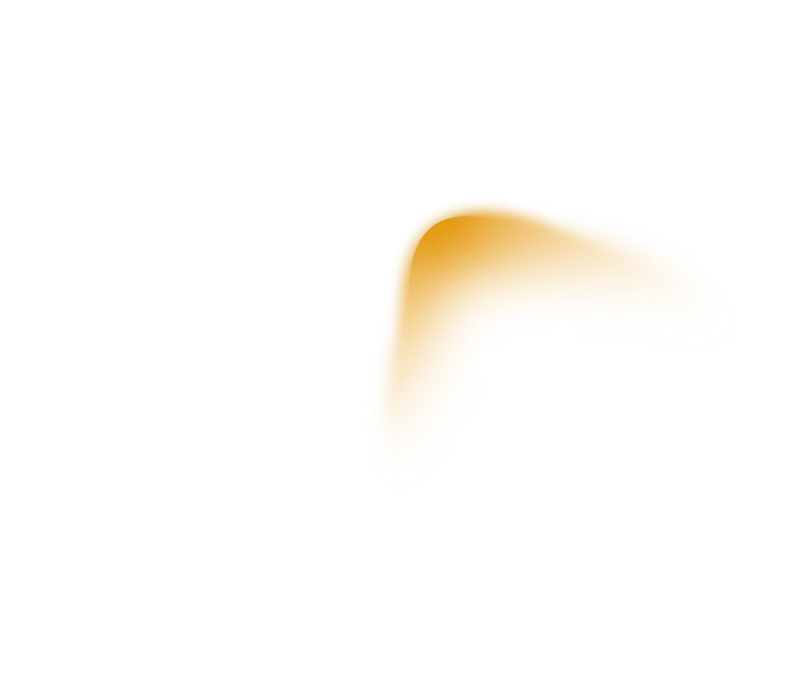
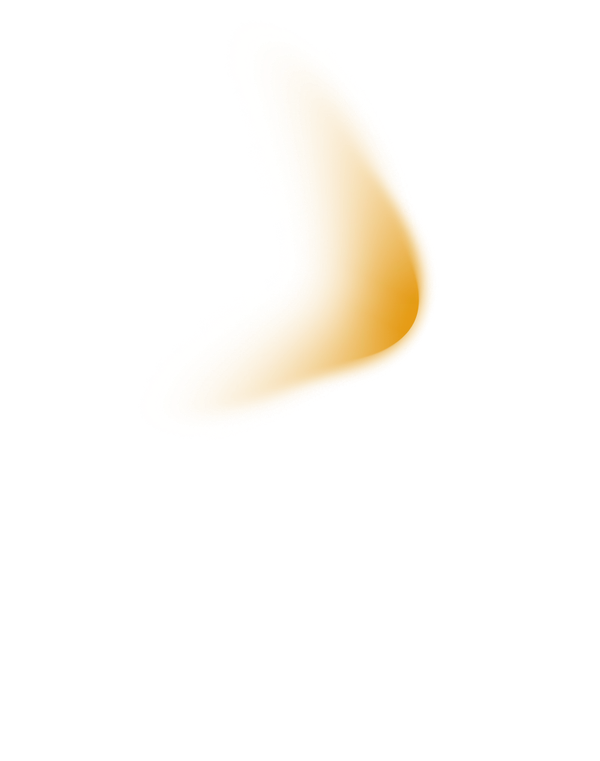
Blurs rebuilt from Figma layer for layer; sign-in stats redesign with count-up
- BlurBg reproduces every Blur V1 instance from Figma: its size, exact
  transform matrix (several are mirrored) and opacity, inside a frame
  placed and anchored like the screen's background frame (left of the
  card, or the middle of the screen for full-page backgrounds), with the
  frame's own fill where it has one. Presets: subscribe banner, org cover,
  Today prompt, sign in, check your email, page not found; phone variants
- Blobs re-exported from the component unrotated (WebP, 87KB in all)
- Full-page blurs run the full screen width, from the header to the
  footer; the auth header has no fill (as in Figma) so the phone Check your
  email blur shows behind it
- Page not found spacing from Figma (137px above the label and below the
  card on desktop, 64px above on phones)
- Sign-in stats: plain figures without cards, two-line labels (Figma
  desktop redesign, now on phones too); figures count up when they come
  into view (CountUp.svelte), real value for screen readers, none of it
  with reduced motion or without JavaScript

Changed region(s): [[0.36, 0.1233, 0.81, 0.6167]]

diff --git a/web/src/routes/login/+page.svelte b/web/src/routes/login/+page.svelte
@@ -1,14 +1,14 @@
 <script lang="ts">
   import BlurBg from '$lib/ui/BlurBg.svelte';
   import Icon from '$lib/ui/Icon.svelte';
+  import CountUp from '$lib/ui/CountUp.svelte';
   let { data, form } = $props();
-  const fmt = (n: number) => n.toLocaleString('en-GB');
 </script>
 
 <svelte:head><title>{form?.sent ? 'Check your email' : 'Sign in'} · Sponsor Hub</title><meta name="robots" content="noindex" /></svelte:head>
 
 {#if form?.sent}
-  <div class="stage blur-bg confirm-stage"><BlurBg />
+  <div class="stage blur-bg confirm-stage"><BlurBg preset="checkEmail" />
     <section class="confirm card rise" aria-labelledby="confirm-h">
       <span class="tile" aria-hidden="true"><svg width="28" height="28" viewBox="0 0 28 28"><rect x="3" y="6" width="22" height="16" rx="3" fill="#A8D5B5" /><path d="M3 9c0-1.7 1.3-3 3-3h16c1.7 0 3 1.3 3 3l-9.2 5.5a3.4 3.4 0 0 1-3.6 0L3 9Z" fill="#1B7D3E" /></svg></span>
       <h1 id="confirm-h" class="t-heading-2" tabindex="-1">Check your email</h1>
@@ -25,7 +25,7 @@
     </section>
   </div>
 {:else}
-  <div class="stage blur-bg"><BlurBg />
+  <div class="stage blur-bg"><BlurBg preset="signin" />
     <div class="split">
       <section class="signin card" aria-labelledby="signin-h">
         <div class="head">
@@ -52,10 +52,10 @@
           <p class="t-body t-secondary">Every employer here holds a Home Office sponsor licence. We check their job boards every day.</p>
         </div>
         <dl class="stats">
-          <div class="card"><dt>live tech roles</dt><dd class="t-stat">{fmt(data.stats.live)}</dd></div>
-          <div class="card"><dt>sponsors hiring now</dt><dd class="t-stat">{fmt(data.stats.hiring)}</dd></div>
-          <div class="card"><dt>register entries checked</dt><dd class="t-stat">{fmt(data.stats.register)}</dd></div>
-          <div class="card"><dt>job board checks</dt><dd class="t-stat">Daily</dd></div>
+          <div><dt>live tech<br />roles</dt><dd class="t-stat"><CountUp value={data.stats.live} /></dd></div>
+          <div><dt>sponsors<br />hiring now</dt><dd class="t-stat"><CountUp value={data.stats.hiring} /></dd></div>
+          <div><dt>register entries<br />checked</dt><dd class="t-stat"><CountUp value={data.stats.register} /></dd></div>
+          <div><dt>job board<br />checks</dt><dd class="t-stat">Daily</dd></div>
         </dl>
       </section>
     </div>
@@ -63,7 +63,7 @@
 {/if}
 
 <style>
-  .stage { flex: 1; display: grid; align-items: center; padding: var(--space-4xl) max(var(--layout-gutter), calc((100% - var(--layout-focus-max)) / 2)); --blur-w: 1500px; --blur-rotate: 93deg; --blur-x: 58%; --blur-y: 62%; --blur-opacity: 0.6; }
+  .stage { flex: 1; display: grid; align-items: center; padding: var(--space-4xl) max(var(--layout-gutter), calc((100% - var(--layout-focus-max)) / 2)); }
   .split { display: grid; grid-template-columns: minmax(0, 500px) minmax(0, 425px); justify-content: space-between; align-items: center; gap: var(--space-3xl); }
   .signin { display: grid; gap: var(--space-lg); padding: var(--space-2xl); }
   .head { display: grid; gap: var(--space-xs); }
@@ -73,12 +73,13 @@
   .why { display: grid; gap: var(--space-lg); }
   .why-head { display: grid; gap: var(--space-xs); }
   .why-head p { margin: 0; }
-  .stats { display: grid; grid-template-columns: repeat(2, minmax(0, 1fr)); gap: var(--space-md); margin: 0; }
-  .stats div { display: flex; flex-direction: column-reverse; justify-content: flex-end; gap: var(--space-2xs); padding: var(--space-lg); }
-  .stats dt { font-size: var(--font-size-body-sm); line-height: var(--line-height-body-sm); color: var(--color-text-secondary); }
-  .stats dd { margin: 0; color: var(--color-text-secondary); }
+  /* Figma › why panel › stats: plain figures, no cards; 2 × 2, labels on two lines */
+  .stats { display: grid; grid-template-columns: repeat(2, minmax(0, 1fr)); column-gap: var(--space-md); row-gap: var(--space-md); max-width: 336px; margin: 0; color: var(--color-text-secondary); }
+  .stats div { display: flex; flex-direction: column-reverse; justify-content: flex-end; gap: var(--space-2xs); padding: var(--space-lg) 0; }
+  .stats dt { font-size: var(--font-size-label-sm); line-height: var(--line-height-label-sm); font-weight: var(--font-weight-medium); }
+  .stats dd { margin: 0; }
 
-  .confirm-stage { --blur-w: 1500px; --blur-rotate: 93deg; --blur-x: 38%; --blur-y: 54%; justify-items: center; }
+  .confirm-stage { justify-items: center; }
   .confirm { display: grid; justify-items: center; text-align: center; gap: var(--space-lg); width: min(100%, 560px); padding: var(--space-3xl); }
   .confirm h1:focus { outline: none; }
   .confirm p { margin: 0; }
@@ -89,13 +90,11 @@
   .confirm-actions form { display: block; }
 
   @media (max-width: 960px) {
-    .stage { align-items: start; padding-top: var(--space-lg); padding-bottom: 240px; --blur-w: 1000px; --blur-x: 62%; --blur-y: 86%; }
+    .stage { align-items: start; padding-top: var(--space-lg); padding-bottom: 240px; }
     .split { grid-template-columns: minmax(0, 1fr); gap: var(--space-3xl); }
     .signin { padding: var(--space-lg); }
     .why { padding: var(--space-xl) 4px 0; }
-    .stats { gap: var(--space-sm); }
-    .stats div { padding: var(--space-md); }
-    .confirm-stage { align-items: start; padding-top: var(--space-6xl); padding-bottom: var(--space-6xl); --blur-y: 78%; --blur-x: 55%; }
+    .confirm-stage { align-items: start; padding-top: var(--space-6xl); padding-bottom: var(--space-6xl); }
     .confirm { padding: var(--space-xl) var(--space-lg); }
     .confirm-actions { flex-direction: column; width: 100%; }
     .confirm-actions > * { width: 100%; }

diff --git a/web/src/lib/ui/BlurBg.svelte b/web/src/lib/ui/BlurBg.svelte
@@ -1,7 +1,73 @@
-<!--
-  Figma › Backgrounds › Blur V1, as three blobs so each can enter on its own
-  (🎞 Motion › Blur entrance): light green drifts in from the left, amber from
-  the right, green 150ms after amber. Place inside an element with .blur-bg;
-  that element's --blur-* variables size and place it. Plays once per visit.
--->
-<span class="blur" aria-hidden="true"><span class="blob blob-light-green"></span><span class="blob blob-amber"></span><span class="blob blob-green"></span></span>
+<script lang="ts" module>
+  /**
+   * Figma › Backgrounds › Blur V1, rebuilt layer for layer from each screen.
+   * Every Blur V1 instance becomes a layer with Figma's own size, transform
+   * matrix (some are mirrored) and opacity, inside a frame placed where the
+   * screen's "background" frame sits. Desktop Small and Large share numbers:
+   * Figma anchors these blurs to the left of their card, or to the middle of
+   * the screen on full-page backgrounds. The blob images are the component's
+   * three blobs, unrotated (static/blob-*.webp).
+   */
+  type Layer = { w: number; h: number; m: string; op: number };
+  /** fill: the background frame's own fill, which sits under the blobs at the frame's opacity. */
+  type Frame = { anchor: 'left' | 'center'; x?: number; y?: number; op?: number; clipTop?: number; fill?: string; layers: Layer[] };
+  type Preset = { desk: Frame; mob: Frame; bleed?: boolean; bp?: 640 | 960 };
+
+  const BANNER = '0.9961, 0.0885, 0.0885, -0.9961'; // mirrored
+  const BANNER2 = '0.0412, -0.9991, -0.9991, -0.0412'; // mirrored, turned
+  const PAGE = '-0.0544, 0.9985, -0.9985, -0.0544';
+  const page = (e: number, f: number): Layer[] => [{ w: 1269.6, h: 1611.9, m: `${PAGE}, ${e}, ${f}`, op: 0.6 }];
+
+  export const BLURS = {
+    /** Banner / Subscribe (and · mobile) */
+    subscribe: {
+      desk: { anchor: 'left', layers: [
+        { w: 1388.4, h: 1762.7, m: `${BANNER}, -884.5547, 890.7804`, op: 0.35 },
+        { w: 1388.4, h: 1762.7, m: `${BANNER2}, 1494.625, 1013.8971`, op: 0.35 }] },
+      mob: { anchor: 'left', op: 0.7, layers: [
+        { w: 1388.4, h: 1762.7, m: `${BANNER}, -944.5547, 890.7804`, op: 0.35 },
+        { w: 1388.4, h: 1762.7, m: `${BANNER2}, 1003.625, 1013.8971`, op: 0.35 }] }
+    },
+    /** Organisation page cover */
+    cover: {
+      desk: { anchor: 'left', y: -225, op: 0.55, fill: 'var(--color-bg-subtle)', layers: [
+        { w: 2122.6, h: 2694.8, m: `${BANNER}, -1352.3035, 1361.8212`, op: 0.35 },
+        { w: 2122.6, h: 2694.8, m: `${BANNER2}, 2284.9763, 1550.0415`, op: 0.35 }] },
+      mob: { anchor: 'left', x: -209, y: -557, op: 0.55, fill: 'var(--color-bg-subtle)', layers: [
+        { w: 4703.1, h: 5971, m: `${BANNER}, -2996.3577, 3017.4465`, op: 0.35 },
+        { w: 4703.1, h: 5971, m: `${BANNER2}, 5062.9219, 3434.4949`, op: 0.35 }] }
+    },
+    /** Today › signed-out prompt card */
+    today: {
+      desk: { anchor: 'left', layers: [{ w: 1691.4, h: 2147.3, m: '0.4436, 0.8962, -0.8962, 0.4436, 786.5156, -821.5362', op: 0.4 }] },
+      mob: { anchor: 'left', layers: [{ w: 747.6, h: 949.1, m: '-0.4436, 0.8962, 0.8962, 0.4436, -76.1484, -320.9231', op: 0.4 }] }
+    },
+    /** Sign in (full page under the header) */
+    signin: { bleed: true, bp: 960, desk: { anchor: 'center', layers: page(763.5547, -0.2922) }, mob: { anchor: 'center', layers: page(603.0547, 392.7078) } },
+    /** Sign in › Check your email; on phones it also shows behind the (transparent) header */
+    checkEmail: { bleed: true, bp: 960, desk: { anchor: 'center', layers: page(603.5552, -91.2922) }, mob: { anchor: 'center', y: -72, clipTop: -72, layers: page(603.5552, 20.7078) } },
+    /** Page not found (main area between header and footer) */
+    notFound: { bleed: true, desk: { anchor: 'center', layers: page(603.5552, -204.2922) }, mob: { anchor: 'center', y: -39, layers: page(603.0557, 19.7078) } }
+  } satisfies Record<string, Preset>;
+</script>
+
+<script lang="ts">
+  /** Place inside an element with .blur-bg. Plays the Blur entrance once per visit (see app.html). */
+  let { preset }: { preset: keyof typeof BLURS } = $props();
+  const p: Preset = $derived(BLURS[preset]);
+</script>
+
+<span class="blur" class:bleed={p.bleed} class:bp960={p.bp === 960} aria-hidden="true">
+  {#each [['desk', p.desk], ['mob', p.mob]] as const as [k, fr] (k)}
+    <span class="clip {k}" style:top={fr.clipTop != null ? `${fr.clipTop}px` : null}>
+      {#if fr.fill}<span class="fill" style:background={fr.fill} style:opacity={fr.op ?? 1}></span>{/if}
+      <span class="frame" style:left={fr.anchor === 'center' ? '50%' : `${fr.x ?? 0}px`} style:top="{(fr.y ?? 0) - (fr.clipTop ?? 0)}px" style:opacity={fr.op ?? 1}>
+        {#each fr.layers as l, i (i)}
+          <span class="layer" style:width="{l.w}px" style:height="{l.h}px" style:transform="matrix({l.m})" style:opacity={l.op}>
+            <span class="blob blob-light-green"></span><span class="blob blob-amber"></span><span class="blob blob-green"></span>
+          </span>
+        {/each}
+      </span>
+    </span>
+  {/each}
+</span>

diff --git a/web/src/lib/styles/components.css b/web/src/lib/styles/components.css
@@ -174,20 +174,28 @@ ul.tags, ol.tags { list-style: none; margin: 0; padding: 0; }
   mask-image: radial-gradient(circle at 0 0, #000 90px, transparent 236px);
 }
 
-/* ---------- Soft blur background (Figma › Components › Backgrounds › Blur V1; markup in BlurBg.svelte) ---------- */
-.blur-bg { position: relative; isolation: isolate; overflow: clip; }
-.blur-bg > .blur {
-  position: absolute; z-index: -1; pointer-events: none;
-  width: var(--blur-w, 1100px); aspect-ratio: 1692 / 1441; left: var(--blur-x, 50%); top: var(--blur-y, 50%);
-  translate: -50% -50%; rotate: var(--blur-rotate, 0deg);
-  opacity: calc(var(--blur-opacity, 0.6) * 0.7); /* Blur V1 sits at 70% in Figma */
-}
-.blob { position: absolute; inset: 0; background: center / contain no-repeat; animation: blob-in var(--duration-entrance) var(--ease-entrance) both; }
-.blob-light-green { background-image: url('/blob-light-green.webp'); --blob-from: -40px 24px; }
-.blob-amber { background-image: url('/blob-amber.webp'); --blob-from: 40px -24px; }
-.blob-green { background-image: url('/blob-green.webp'); --blob-from: 40px -24px; animation-delay: 150ms; }
+/* ---------- Soft blur background (Figma › Backgrounds › Blur V1; layers in BlurBg.svelte) ---------- */
+.blur-bg { position: relative; isolation: isolate; }
+.blur { position: absolute; inset: 0; z-index: -1; pointer-events: none; border-radius: inherit; }
+/* Full-page blurs run the width of the screen, as in Figma, not just the content column. */
+.blur.bleed { left: 50%; right: auto; width: 100vw; translate: -50% 0; border-radius: 0; }
+.blur .clip { position: absolute; inset: var(--blur-clip-top, 0px) 0 0; overflow: hidden; border-radius: inherit; }
+.blur .fill { position: absolute; inset: 0; }
+.blur .frame { position: absolute; width: 0; height: 0; }
+.blur .layer { position: absolute; left: 0; top: 0; transform-origin: 0 0; }
+.blur .mob { display: none; }
+@media (max-width: 640px) { .blur:not(.bp960) .desk { display: none; } .blur:not(.bp960) .mob { display: block; } }
+@media (max-width: 960px) { .blur.bp960 .desk { display: none; } .blur.bp960 .mob { display: block; } }
+/* Blur entrance (🎞 Motion): offsets are Figma's ±40/24px on the 1177×1495 component, as fractions of the layer. */
+.blob { position: absolute; inset: 0; background: center / 100% 100% no-repeat; animation: blob-in var(--duration-entrance) var(--ease-entrance) both; }
+.blob-light-green { background-image: url('/blob-light-green.webp'); --blob-from: -3.4% 1.6%; }
+.blob-amber { background-image: url('/blob-amber.webp'); --blob-from: 3.4% -1.6%; }
+.blob-green { background-image: url('/blob-green.webp'); --blob-from: 3.4% -1.6%; animation-delay: 150ms; }
 /* Once per visit: app.html marks the page after the first entrance. */
 .blur-seen .blob { animation: none; }
+/* CountUp: hide the final figure until the count is ready to start, so it doesn't flash. */
+.js .countup:not(.ready) > [aria-hidden] { visibility: hidden; animation: countup-fallback 0s 2s forwards; } /* shown anyway if the app never starts */
+@keyframes countup-fallback { to { visibility: visible; } }
 /* Cards that appear after an action (Check your email) rise in gently. */
 @keyframes rise-in { from { opacity: 0; translate: 0 8px; } }
 .rise { animation: rise-in var(--duration-slow) var(--ease-out) both; }

diff --git a/web/src/routes/+error.svelte b/web/src/routes/+error.svelte
@@ -6,7 +6,7 @@
 
 <svelte:head><title>{notFound ? 'Page not found' : 'Something went wrong'} · Sponsor Hub</title><meta name="robots" content="noindex" /></svelte:head>
 
-<div class="stage blur-bg"><BlurBg />
+<div class="stage blur-bg"><BlurBg preset="notFound" />
   <p class="t-overline t-muted code">Error {page.status}</p>
   <section class="box card" aria-labelledby="err-h">
     <span class="tile" aria-hidden="true">
@@ -27,11 +27,11 @@
 </div>
 
 <style>
-  .stage { display: grid; justify-items: center; gap: var(--space-md); padding: var(--space-4xl) 0 calc(var(--space-6xl) + var(--page-pad-end, 0px)); margin-bottom: calc(-1 * var(--page-pad-end, 0px)); --blur-w: 1400px; --blur-rotate: 93deg; --blur-x: 40%; --blur-y: 56%; }
+  .stage { --blur-clip-top: calc(-1 * var(--page-pad-start, 0px)); display: grid; justify-items: center; gap: var(--space-md); /* Figma: 137px from the top of main to the label, and from the card to the footer */ padding: calc(137px - var(--page-pad-start, 0px)) 0 calc(137px + var(--page-pad-end, 0px)); margin-bottom: calc(-1 * var(--page-pad-end, 0px)); }
   .code { margin: 0; }
   .box { display: grid; justify-items: center; text-align: center; gap: var(--space-lg); width: min(100%, 640px); padding: var(--space-3xl) var(--space-xl); }
   .box p { margin: 0; max-width: 480px; }
   .tile { display: grid; place-items: center; width: 56px; height: 56px; border-radius: 16px; background: var(--color-bg-surface); border: 1px solid var(--color-border-subtle); box-shadow: var(--shadow-sm); color: var(--color-text-link); }
   .actions { display: flex; flex-wrap: wrap; justify-content: center; gap: var(--space-sm); }
-  @media (max-width: 640px) { .stage { padding-top: var(--space-xl); padding-bottom: calc(280px + var(--page-pad-end, 0px)); --blur-w: 1000px; --blur-x: 60%; --blur-y: 80%; } .box { padding: var(--space-xl) var(--space-lg); } }
+  @media (max-width: 640px) { .stage { padding-top: calc(64px - var(--page-pad-start, 0px)); padding-bottom: calc(312px + var(--page-pad-end, 0px)); } .box { padding: var(--space-xl) var(--space-lg); } }
 </style>

diff --git a/web/src/lib/ui/CountUp.svelte b/web/src/lib/ui/CountUp.svelte
@@ -1,0 +1,37 @@
+<script lang="ts">
+  import { onMount } from 'svelte';
+  /**
+   * A number that counts up from 0 the first time it scrolls into view
+   * (🎞 Motion: entrance duration, ease-out). The real figure is what the
+   * server sends and what screen readers hear; with reduced motion or no
+   * JavaScript it simply shows.
+   */
+  let { value, duration = 1100 }: { value: number; duration?: number } = $props();
+  const fmt = (n: number) => n.toLocaleString('en-GB');
+  let el: HTMLSpanElement;
+  let shown = $state<number | null>(null);
+  let ready = $state(false);
+
+  onMount(() => {
+    if (window.matchMedia('(prefers-reduced-motion: reduce)').matches) { ready = true; return; }
+    shown = 0;
+    ready = true;
+    let raf = 0;
+    const io = new IntersectionObserver(([e]) => {
+      if (!e.isIntersecting) return;
+      io.disconnect();
+      const t0 = performance.now();
+      const tick = (t: number) => {
+        const p = Math.min(1, (t - t0) / duration);
+        shown = Math.round(value * (1 - Math.pow(1 - p, 4)));
+        if (p < 1) raf = requestAnimationFrame(tick);
+        else shown = null;
+      };
+      raf = requestAnimationFrame(tick);
+    }, { threshold: 0.4 });
+    io.observe(el);
+    return () => { io.disconnect(); cancelAnimationFrame(raf); };
+  });
+</script>
+
+<span class="countup" class:ready bind:this={el}><span aria-hidden="true">{fmt(shown ?? value)}</span><span class="visually-hidden">{fmt(value)}</span></span>

diff --git a/web/src/lib/ui/SubscribeBanner.svelte b/web/src/lib/ui/SubscribeBanner.svelte
@@ -9,7 +9,7 @@
   let { loggedIn = false }: { loggedIn?: boolean } = $props();
 </script>
 
-<section class="banner card blur-bg" aria-labelledby="subscribe-title"><BlurBg />
+<section class="banner card blur-bg" aria-labelledby="subscribe-title"><BlurBg preset="subscribe" />
   <span class="mail" aria-hidden="true"><svg width="28" height="28" viewBox="0 0 28 28"><rect x="3" y="6" width="22" height="16" rx="3" fill="#A8D5B5" /><path d="M3 9c0-1.7 1.3-3 3-3h16c1.7 0 3 1.3 3 3l-9.2 5.5a3.4 3.4 0 0 1-3.6 0L3 9Z" fill="#1B7D3E" /></svg></span>
   <h2 id="subscribe-title" class="t-heading-3">Get roles that fit you, every week</h2>
   <p class="t-body t-secondary">New tech roles at UK visa sponsors that match your profile. Free, one click to stop.</p>
@@ -27,7 +27,7 @@
 </section>
 
 <style>
-  .banner { --blur-w: 1100px; --blur-x: 50%; --blur-y: 55%; --blur-opacity: 0.35; display: grid; justify-items: center; text-align: center; gap: var(--space-md); padding: var(--space-3xl) var(--space-xl); background: var(--color-bg-subtle); }
+  .banner { display: grid; justify-items: center; text-align: center; gap: var(--space-md); padding: var(--space-3xl) var(--space-xl); background: var(--color-bg-subtle); }
   .mail { display: grid; place-items: center; width: 56px; height: 56px; border-radius: 16px; background: var(--color-bg-surface); border: 1px solid var(--color-border-subtle); box-shadow: var(--shadow-sm); }
   h2 { max-width: 440px; }
   p { margin: 0; max-width: 380px; }

diff --git a/web/src/routes/today/+page.svelte b/web/src/routes/today/+page.svelte
@@ -58,7 +58,7 @@
         {/if}
       </section>
     {:else}
-      <section class="prompt card blur-bg" aria-labelledby="prompt-h"><BlurBg />
+      <section class="prompt card blur-bg" aria-labelledby="prompt-h"><BlurBg preset="today" />
         <h2 id="prompt-h" class="t-heading-4">See what changed for you</h2>
         <p class="t-body-sm t-secondary">Sign in to see new roles ranked for you, new roles at organisations you follow, and changes to roles you've saved.</p>
         <a class="btn btn-primary" href="/login?next=%2Ftoday">Sign in</a>
@@ -113,7 +113,7 @@
   .n { color: var(--color-text-muted); font-weight: var(--font-weight-regular); font-size: var(--font-size-body); }
   .list { list-style: none; margin: 0; padding: 0; display: grid; gap: var(--space-md); }
   .quiet { margin: 0; padding: var(--space-md); background: var(--color-bg-page); border-radius: var(--radius-md); }
-  .prompt { display: grid; gap: var(--space-md); justify-items: start; padding: 28px; background: var(--color-bg-page); --blur-w: 1000px; --blur-x: 75%; --blur-y: 40%; --blur-opacity: 0.45; }
+  .prompt { display: grid; gap: var(--space-md); justify-items: start; padding: 28px; background: var(--color-bg-page); }
   .prompt p { margin: 0; max-width: 520px; }
   .aside { position: sticky; top: 96px; }
   .side { display: grid; gap: 14px; padding: var(--space-lg); }

diff --git a/web/src/routes/org/[id]/+page.svelte b/web/src/routes/org/[id]/+page.svelte
@@ -86,7 +86,7 @@
 <a class="back t-label" href="/organisations"><Icon name="chevron-left" size={16} />All organisations</a>
 
 <article class="hero card">
-  <div class="cover blur-bg" aria-hidden="true"><BlurBg /></div>
+  <div class="cover blur-bg" aria-hidden="true"><BlurBg preset="cover" /></div>
   <div class="hero-body">
     <div class="logo-wrap"><OrgLogo {name} size="lg" /></div>
     <div class="title-row">
@@ -249,7 +249,7 @@
   .back:hover { color: var(--color-text-primary); }
 
   .hero { overflow: hidden; }
-  .cover { height: 128px; background: var(--color-bg-page); --blur-w: 1200px; --blur-x: 50%; --blur-y: 40%; --blur-opacity: 0.55; }
+  .cover { height: 128px; background: var(--color-bg-page); }
   .hero-body { display: grid; gap: var(--space-md); padding: 0 var(--space-xl); margin-top: -36px; position: relative; }
   .logo-wrap { width: fit-content; padding: 4px; background: var(--color-bg-surface); border-radius: var(--radius-xl); box-shadow: var(--shadow-sm); }
   .title-row { display: flex; align-items: center; justify-content: space-between; gap: var(--space-lg); flex-wrap: wrap; }

diff --git a/web/src/routes/+layout.svelte b/web/src/routes/+layout.svelte
@@ -32,8 +32,8 @@
 <style>
   .skip { position: absolute; left: var(--space-md); top: -100px; z-index: 100; background: var(--color-bg-surface); padding: var(--space-sm) var(--space-md); min-height: var(--size-touch-target); border-radius: var(--radius-md); box-shadow: var(--shadow-md); }
   .skip:focus { top: var(--space-md); }
-  .page { --page-pad-end: var(--space-4xl); max-width: var(--layout-page-max); margin: 0 auto; padding: var(--space-2xl) var(--layout-gutter) var(--page-pad-end); min-height: 70vh; }
+  .page { --page-pad-start: var(--space-2xl); --page-pad-end: var(--space-4xl); max-width: var(--layout-page-max); margin: 0 auto; padding: var(--page-pad-start) var(--layout-gutter) var(--page-pad-end); min-height: 70vh; }
   .auth-shell { min-height: 100vh; display: flex; flex-direction: column; }
   .auth-main { flex: 1; display: flex; flex-direction: column; }
-  @media (max-width: 640px) { .page { --page-pad-end: var(--space-2xl); padding-top: var(--space-lg); } }
+  @media (max-width: 640px) { .page { --page-pad-start: var(--space-lg); --page-pad-end: var(--space-2xl); } }
 </style>

diff --git a/web/src/app.html b/web/src/app.html
@@ -4,8 +4,8 @@
 		<meta charset="utf-8" />
 		<meta name="viewport" content="width=device-width, initial-scale=1" />
 		<meta name="text-scale" content="scale" />
-		<!-- The blur background drifts in on the first page of a visit only (see BlurBg.svelte). -->
-		<script nonce="%sveltekit.nonce%">try{var d=document.documentElement;if(sessionStorage.getItem('sh-blur'))d.classList.add('blur-seen');else{sessionStorage.setItem('sh-blur','1');setTimeout(function(){d.classList.add('blur-seen')},1600)}}catch(e){}</script>
+		<!-- Marks JavaScript as on (CountUp), and lets the blur drift in on the first page of a visit only (BlurBg). -->
+		<script nonce="%sveltekit.nonce%">try{var d=document.documentElement;d.classList.add('js');if(sessionStorage.getItem('sh-blur'))d.classList.add('blur-seen');else{sessionStorage.setItem('sh-blur','1');setTimeout(function(){d.classList.add('blur-seen')},1600)}}catch(e){}</script>
 		%sveltekit.head%
 	</head>
 	<body data-sveltekit-preload-data="hover">

diff --git a/web/src/routes/auth/verify/+page.svelte b/web/src/routes/auth/verify/+page.svelte
@@ -7,7 +7,7 @@
 
 <svelte:head><title>Sign in · Sponsor Hub</title><meta name="robots" content="noindex" /></svelte:head>
 
-<div class="stage blur-bg"><BlurBg />
+<div class="stage blur-bg"><BlurBg preset="signin" />
   <section class="box card" aria-labelledby="verify-h">
     <span class="tile" aria-hidden="true"><Icon name={broken ? 'alert' : 'check-circle'} size={28} /></span>
     {#if broken}
@@ -24,7 +24,7 @@
 </div>
 
 <style>
-  .stage { flex: 1; display: grid; place-items: center; padding: var(--space-6xl) var(--space-md); --blur-w: 1500px; --blur-rotate: 93deg; --blur-x: 38%; --blur-y: 54%; }
+  .stage { flex: 1; display: grid; place-items: center; padding: var(--space-6xl) var(--space-md); }
   .box { display: grid; justify-items: center; text-align: center; gap: var(--space-lg); width: min(100%, 560px); padding: var(--space-3xl); }
   .box p { margin: 0; }
   .who { color: var(--color-text-primary); }

diff --git a/web/src/lib/ui/AuthHeader.svelte b/web/src/lib/ui/AuthHeader.svelte
@@ -10,7 +10,7 @@
 </header>
 
 <style>
-  .auth-header { display: flex; align-items: center; justify-content: space-between; gap: var(--space-md); padding: var(--space-md) max(var(--layout-gutter), calc((100% - var(--layout-content-max)) / 2)); border-bottom: 1px solid var(--color-border-subtle); background: var(--color-bg-surface); position: relative; z-index: 2; }
+  .auth-header { display: flex; align-items: center; justify-content: space-between; gap: var(--space-md); padding: var(--space-md) max(var(--layout-gutter), calc((100% - var(--layout-content-max)) / 2)); border-bottom: 1px solid var(--color-border-subtle); background: transparent; position: relative; z-index: 2; } /* no fill, as in Figma: the blur can show through */
   .home { border-radius: var(--radius-sm); }
   .short { display: none; }
   @media (max-width: 640px) {
